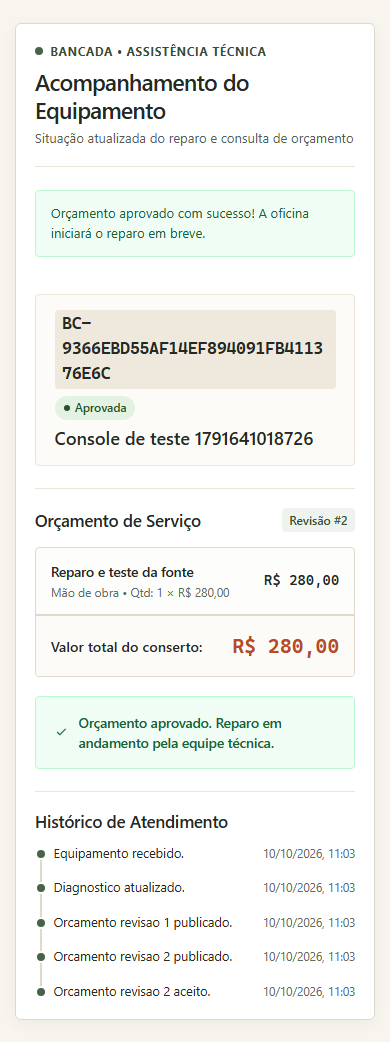
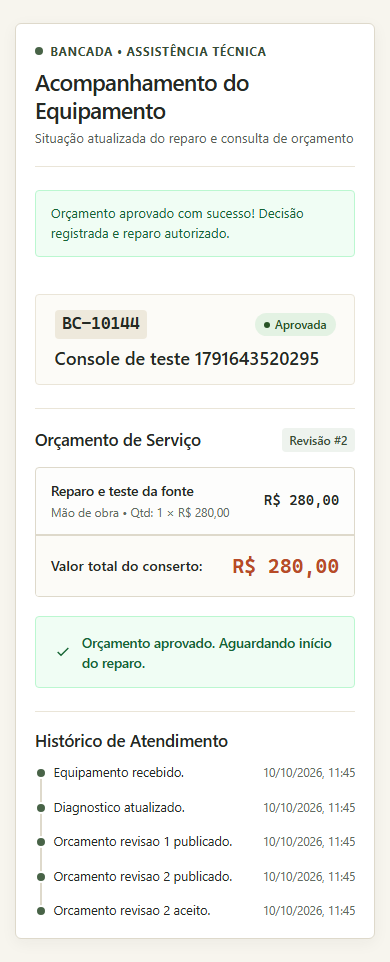
fix: preserve demo sessions and remove stale repair actions

diff --git a/e2e/demo.spec.ts b/e2e/demo.spec.ts
@@ -1,0 +1,75 @@
+import { test, expect } from '@playwright/test';
+import AxeBuilder from '@axe-core/playwright';
+
+test('visitors have private data, role controls and a keyboard usable reset', async ({ page, browser }) => {
+  await page.goto('/entrar');
+  await page.getByTestId('start-demo-button').click();
+  await expect(page).toHaveURL(/\/ordens$/);
+  const initial = await (await page.request.get('/api/orders')).json();
+  expect(initial.total).toBe(5);
+  await page.getByRole('complementary').getByRole('link', { name: 'Nova ordem', exact: true }).click();
+  const equipment = `Visitante A ${Date.now()}`;
+  await page.getByLabel(/nome completo do cliente/i).fill('Cliente fictício A');
+  await page.getByLabel(/email de contato/i).fill('demo-a@example.test');
+  await page.getByLabel(/equipamento \(marca/i).fill(equipment);
+  await page.getByLabel(/problema relatado pelo cliente/i).fill('Falha fictícia.');
+  await page.getByLabel(/técnico responsável pelo diagnóstico/i).selectOption({ label: 'Tecnico Um' });
+  await page.getByRole('button', { name: /abrir ordem de serviço/i }).click();
+  await expect(page).toHaveURL(/\/ordens\/[0-9a-f-]+$/);
+  const privateOrderUrl = page.url();
+  const pending = initial.items.find((i: { equipmentLabel: string }) => i.equipmentLabel.startsWith('Monitor'));
+  await page.goto(`/ordens/${pending.id}`);
+  await page.getByRole('button', { name: /gerar link de acompanhamento/i }).click();
+  const access = page.getByLabel(/link de acompanhamento gerado/i);
+  await expect(access).toHaveValue(/#token=/);
+  const customer = await page.context().newPage();
+  await customer.goto(await access.inputValue());
+  await expect(customer.getByRole('button', { name: 'Aprovar orçamento', exact: true })).toBeVisible();
+  await page.goto(privateOrderUrl);
+  const independent = await browser.newContext({ baseURL: 'http://localhost:5092' });
+  try {
+    const other = await independent.newPage();
+    await other.goto('http://localhost:5092/entrar');
+    await other.getByTestId('start-demo-button').click();
+    await expect(other).toHaveURL(/\/ordens$/);
+    expect((await (await other.request.get('/api/orders')).json()).total).toBe(5);
+    expect((await other.request.get(privateOrderUrl.replace('http://localhost:5092/ordens/', '/api/orders/'))).status()).toBe(404);
+    await expect(other.getByText(equipment, { exact: true })).toHaveCount(0);
+    await page.getByTestId('demo-role-select').selectOption('technician1');
+    await expect(page.getByTestId('demo-role-select')).toBeEnabled();
+    await expect(page.getByRole('button', { name: /registrar diagnóstico/i })).toBeVisible();
+    await customer.getByRole('button', { name: 'Aprovar orçamento', exact: true }).click();
+    await customer.getByRole('button', { name: 'Sim, aprovar serviço', exact: true }).click();
+    await expect(customer.getByText(/orçamento aprovado com sucesso/i)).toBeVisible();
+    await page.reload();
+    await expect(page.getByTestId('demo-role-select')).toHaveValue('technician1');
+    await page.getByTestId('demo-role-select').selectOption('receptionist');
+    await expect(page.getByTestId('demo-role-select')).toBeEnabled();
+    await page.goto('/ordens');
+    await expect(page.getByRole('table').getByText(equipment, { exact: true })).toBeVisible();
+    const opener = page.getByRole('button', { name: 'Reiniciar demonstração', exact: true });
+    await opener.click();
+    const modal = page.getByTestId('demo-reset-modal');
+    const cancel = modal.getByRole('button', { name: 'Cancelar', exact: true });
+    const confirm = modal.getByRole('button', { name: /sim, reiniciar/i });
+    await expect(cancel).toBeFocused();
+    await cancel.press('Shift+Tab');
+    await expect(confirm).toBeFocused();
+    await confirm.press('Tab');
+    await expect(cancel).toBeFocused();
+    await cancel.press('Escape');
+    await expect(modal).toHaveCount(0);
+    await expect(opener).toBeFocused();
+    await opener.click();
+    await confirm.click();
+    await expect(modal).toHaveCount(0);
+    await expect(page.getByText(equipment, { exact: true })).toHaveCount(0);
+    const reset = await (await page.request.get('/api/orders')).json();
+    expect(reset.total).toBe(5);
+    expect(reset.items.map((i: { id: string }) => i.id)).not.toEqual(initial.items.map((i: { id: string }) => i.id));
+    expect((await (await other.request.get('/api/orders')).json()).total).toBe(5);
+    await customer.reload();
+    await expect(customer.getByText(/acesso indisponível ou expirado/i)).toBeVisible();
+    expect((await new AxeBuilder({ page }).withTags(['wcag2a', 'wcag2aa', 'wcag21aa']).analyze()).violations).toEqual([]);
+  } finally { await independent.close(); }
+});

diff --git a/frontend/src/app/app.ts b/frontend/src/app/app.ts
@@ -1,5 +1,6 @@
 import { Component, OnInit, computed, inject, signal } from '@angular/core';
 import { CommonModule } from '@angular/common';
+import { FormsModule } from '@angular/forms';
 import { NavigationEnd, Router, RouterModule } from '@angular/router';
 import { filter } from 'rxjs';
 import { SessionService } from './core/session.service';
@@ -10,7 +11,7 @@ import { FocusTrapDirective } from './core/focus-trap.directive';
 @Component({
   selector: 'app-root',
   standalone: true,
-  imports: [CommonModule, RouterModule, FocusTrapDirective],
+  imports: [CommonModule, FormsModule, RouterModule, FocusTrapDirective],
   templateUrl: './app.html',
   styleUrl: './app.scss',
 })
@@ -78,10 +79,8 @@ export class App implements OnInit {
 
     try {
       await this.sessionService.switchDemoRole(role);
-      // Reload route without window reload
-      const url = this.router.url;
-      await this.router.navigateByUrl('/', { skipLocationChange: true });
-      await this.router.navigateByUrl(url);
+      this.sessionService.refreshRoutes = true;
+      await this.router.navigateByUrl(this.router.url, { onSameUrlNavigation: 'reload' });
     } catch (err: any) {
       if (err.status === 401) {
         this.demoErrorMessage.set('Sessão de demonstração expirada (24h). Redirecionando...');
@@ -93,6 +92,7 @@ export class App implements OnInit {
         this.demoErrorMessage.set(problem?.detail || 'Erro ao alternar papel na demonstração.');
       }
     } finally {
+      this.sessionService.refreshRoutes = false;
       this.isSwitchingRole.set(false);
     }
   }
@@ -113,8 +113,8 @@ export class App implements OnInit {
     try {
       await this.sessionService.resetDemo();
       this.showResetModal.set(false);
-      // Navigate to queue after new session
-      await this.router.navigate(['/ordens']);
+      this.sessionService.refreshRoutes = true;
+      await this.router.navigate(['/ordens'], { onSameUrlNavigation: 'reload' });
     } catch (err: any) {
       if (err.status === 401) {
         this.demoErrorMessage.set('Sessão expirada. Inicie uma nova demonstração.');
@@ -126,6 +126,7 @@ export class App implements OnInit {
         this.demoErrorMessage.set(problem?.detail || 'Falha ao reiniciar demonstração.');
       }
     } finally {
+      this.sessionService.refreshRoutes = false;
       this.isResetting.set(false);
     }
   }

diff --git a/frontend/src/app/core/demo.spec.ts b/frontend/src/app/core/demo.spec.ts
@@ -40,11 +40,14 @@ describe('Demo API and State Management', () => {
     api.setCsrfToken('cached-csrf-1');
 
     const startPromise = api.startDemo();
+    httpMock.expectOne('/api/csrf').flush({ token: 'fresh-csrf' });
+    await Promise.resolve();
+    await Promise.resolve();
     await Promise.resolve();
 
     const startReq = httpMock.expectOne('/api/demo/start');
     expect(startReq.request.method).toBe('POST');
-    expect(startReq.request.headers.get('X-CSRF-TOKEN')).toBe('cached-csrf-1');
+    expect(startReq.request.headers.get('X-CSRF-TOKEN')).toBe('fresh-csrf');
 
     const demoSession: SessionInfo = {
       id: 'demo-user-1',
@@ -62,12 +65,15 @@ describe('Demo API and State Management', () => {
     api.setCsrfToken('cached-csrf-2');
 
     const switchPromise = api.switchDemoRole('technician1');
+    httpMock.expectOne('/api/csrf').flush({ token: 'fresh-csrf' });
+    await Promise.resolve();
+    await Promise.resolve();
     await Promise.resolve();
 
     const switchReq = httpMock.expectOne('/api/demo/role');
     expect(switchReq.request.method).toBe('POST');
     expect(switchReq.request.body).toEqual({ role: 'technician1' });
-    expect(switchReq.request.headers.get('X-CSRF-TOKEN')).toBe('cached-csrf-2');
+    expect(switchReq.request.headers.get('X-CSRF-TOKEN')).toBe('fresh-csrf');
 
     const techSession: SessionInfo = {
       id: 'tech-demo-1',
@@ -85,11 +91,14 @@ describe('Demo API and State Management', () => {
     api.setCsrfToken('cached-csrf-3');
 
     const resetPromise = api.resetDemo();
+    httpMock.expectOne('/api/csrf').flush({ token: 'fresh-csrf' });
+    await Promise.resolve();
+    await Promise.resolve();
     await Promise.resolve();
 
     const resetReq = httpMock.expectOne('/api/demo/reset');
     expect(resetReq.request.method).toBe('POST');
-    expect(resetReq.request.headers.get('X-CSRF-TOKEN')).toBe('cached-csrf-3');
+    expect(resetReq.request.headers.get('X-CSRF-TOKEN')).toBe('fresh-csrf');
 
     const resetSession: SessionInfo = {
       id: 'receptionist-reset',

diff --git a/frontend/src/app/features/orders/order-list.component.ts b/frontend/src/app/features/orders/order-list.component.ts
@@ -22,6 +22,7 @@ export class OrderListComponent implements OnInit {
   private readonly api = inject(ApiClient);
   public readonly sessionService = inject(SessionService);
   private readonly router = inject(Router);
+  private latestRequest = 0;
 
   public readonly orders = signal<OrderSummary[]>([]);
   public readonly total = signal<number>(0);
@@ -86,6 +87,7 @@ export class OrderListComponent implements OnInit {
   }
 
   public async loadOrders(): Promise<void> {
+    const request = ++this.latestRequest;
     this.isLoading.set(true);
     this.hasError.set(false);
     this.errorMessage.set('');
@@ -98,9 +100,11 @@ export class OrderListComponent implements OnInit {
         page: this.page(),
         pageSize: this.pageSize(),
       });
+      if (request !== this.latestRequest) return;
       this.orders.set(res.items || []);
       this.total.set(res.total || 0);
     } catch (err: any) {
+      if (request !== this.latestRequest) return;
       this.hasError.set(true);
       const problem = ApiClient.extractProblem(err);
       this.errorMessage.set(
@@ -108,7 +112,7 @@ export class OrderListComponent implements OnInit {
           'Não foi possível carregar as ordens de serviço. Verifique a conexão com o servidor.'
       );
     } finally {
-      this.isLoading.set(false);
+      if (request === this.latestRequest) this.isLoading.set(false);
     }
   }
 

diff --git a/frontend/src/app/app.html b/frontend/src/app/app.html
@@ -110,7 +110,7 @@
         <div class="demo-strip" data-testid="demo-strip" role="region" aria-label="Controles da demonstração">
           <div class="demo-strip-left">
             <span class="demo-badge">Modo Demonstração</span>
-            <span class="demo-caption">Dados fictícios descartáveis &bull; Sem métricas inventadas</span>
+            <span class="demo-caption">Até 20 ordens &bull; Dados fictícios válidos por 24h</span>
           </div>
           <div class="demo-strip-right">
             <label for="demo-role-select" class="demo-label">Perfil ativo:</label>
@@ -118,8 +118,8 @@
               id="demo-role-select"
               data-testid="demo-role-select"
               class="form-select demo-select"
-              [value]="sessionService.currentDemoRole()"
-              (change)="onRoleSelectChange($event)"
+              [ngModel]="sessionService.currentDemoRole()"
+              (ngModelChange)="onSwitchRole($event)"
               [disabled]="isSwitchingRole() || isResetting()"
             >
               @for (opt of demoRoleOptions; track opt.value) {

diff --git a/frontend/src/app/features/orders/order-list.spec.ts b/frontend/src/app/features/orders/order-list.spec.ts
@@ -95,4 +95,22 @@ describe('OrderListComponent', () => {
     expect(retryBtn).toBeTruthy();
     expect(retryBtn?.textContent).toContain('Tentar novamente');
   });
+  it('keeps the newest filter results when earlier requests finish later', async () => {
+    let finishOld!: (value: OrdersListResponse) => void;
+    let finishNew!: (value: OrdersListResponse) => void;
+    mockApiClient.getOrders = vi.fn()
+      .mockImplementationOnce(() => new Promise(resolve => { finishOld = resolve; }))
+      .mockImplementationOnce(() => new Promise(resolve => { finishNew = resolve; }));
+    fixture = TestBed.createComponent(OrderListComponent);
+    const component = fixture.componentInstance;
+    component.searchQuery.set('no');
+    const oldRequest = component.loadOrders();
+    component.searchQuery.set('notebook');
+    const newRequest = component.loadOrders();
+    finishNew({ items: [], total: 1, page: 1, pageSize: 20 });
+    await newRequest;
+    finishOld({ items: [], total: 9, page: 1, pageSize: 20 });
+    await oldRequest;
+    expect(component.total()).toBe(1);
+  });
 });

diff --git a/frontend/src/app/features/customer/customer-view.component.html b/frontend/src/app/features/customer/customer-view.component.html
@@ -105,7 +105,16 @@
                 <svg width="20" height="20" viewBox="0 0 24 24" fill="none" stroke="currentColor" stroke-width="2">
                   <polyline points="20 6 9 17 4 12"></polyline>
                 </svg>
-                <span>Orçamento aprovado. Reparo em andamento pela equipe técnica.</span>
+                <span>
+                  @switch (o.status) {
+                    @case ('approved') { Orçamento aprovado. Aguardando início do reparo. }
+                    @case ('repairing') { Reparo em andamento pela equipe técnica. }
+                    @case ('ready') { Reparo concluído. Equipamento pronto para retirada. }
+                    @case ('delivered') { Equipamento entregue. Atendimento concluído. }
+                    @case ('cancelled') { Orçamento aprovado anteriormente. Atendimento cancelado. }
+                    @default { Orçamento aprovado. }
+                  }
+                </span>
               </div>
             } @else if (q.decision === 'rejected') {
               <div class="decision-banner banner-rejected">

diff --git a/frontend/src/app/features/customer/customer-view.spec.ts b/frontend/src/app/features/customer/customer-view.spec.ts
@@ -160,4 +160,17 @@ describe('CustomerViewComponent', () => {
     expect(fixture.componentInstance.pendingDecision()).toBeNull();
     expect(document.activeElement).toBe(acceptBtn);
   });
+  it('removes stale approval controls when access expires during a decision', async () => {
+    fixture = TestBed.createComponent(CustomerViewComponent);
+    const component = fixture.componentInstance;
+    component.order.set(sampleProjection);
+    component.openDecisionConfirm('accepted');
+    mockApiClient.submitCustomerDecision = vi.fn().mockRejectedValue({ status: 404 });
+    vi.spyOn(window, 'alert').mockImplementation(() => {});
+    await component.confirmDecision();
+    expect(component.isExpired()).toBe(true);
+    expect(component.pendingDecision()).toBeNull();
+    expect(component.order()).toBeNull();
+    vi.restoreAllMocks();
+  });
 });

diff --git a/e2e/lifecycle.spec.ts b/e2e/lifecycle.spec.ts
@@ -70,6 +70,7 @@ test('receptionist, technician and customer complete a repair in the browser', a
     await customer.getByRole('button', { name: 'Aprovar orçamento', exact: true }).click();
     await customer.getByRole('button', { name: 'Sim, aprovar serviço', exact: true }).click();
     await expect(customer.getByText(/orçamento aprovado com sucesso/i)).toBeVisible();
+    await expect(customer.getByText('Orçamento aprovado. Aguardando início do reparo.', { exact: true })).toBeVisible();
     expect((await new AxeBuilder({ page: customer }).withTags(['wcag2a', 'wcag2aa', 'wcag21aa']).analyze()).violations).toEqual([]);
     expect(await customer.evaluate(() => document.documentElement.scrollWidth <= window.innerWidth)).toBe(true);
     if (process.env['BANCADA_CAPTURE_SCREENSHOTS']) {

diff --git a/frontend/src/app/features/orders/order-detail.spec.ts b/frontend/src/app/features/orders/order-detail.spec.ts
@@ -177,4 +177,15 @@ describe('OrderDetailComponent', () => {
     expect(fixture.componentInstance.showCancelModal()).toBe(false);
     expect(document.activeElement).toBe(cancelTrigger);
   });
+  it('refreshes the order version after revoking customer access', async () => {
+    fixture = TestBed.createComponent(OrderDetailComponent);
+    const component = fixture.componentInstance;
+    component.order.set(sampleOrder);
+    mockApiClient.revokeCustomerAccess = vi.fn().mockResolvedValue(undefined);
+    mockApiClient.getOrder = vi.fn().mockResolvedValue({ ...sampleOrder, version: 4 });
+    vi.spyOn(window, 'confirm').mockReturnValue(true);
+    await component.revokeCustomerAccess();
+    expect(component.order()?.version).toBe(4);
+    vi.restoreAllMocks();
+  });
 });

diff --git a/frontend/src/app/app.config.ts b/frontend/src/app/app.config.ts
@@ -1,12 +1,14 @@
 import { ApplicationConfig, provideBrowserGlobalErrorListeners } from '@angular/core';
-import { provideRouter, withComponentInputBinding } from '@angular/router';
+import { provideRouter, withComponentInputBinding, RouteReuseStrategy } from '@angular/router';
 import { provideHttpClient, withFetch } from '@angular/common/http';
 import { routes } from './app.routes';
+import { SessionRoutes } from './core/session-routes';
 
 export const appConfig: ApplicationConfig = {
   providers: [
     provideBrowserGlobalErrorListeners(),
     provideRouter(routes, withComponentInputBinding()),
+    { provide: RouteReuseStrategy, useClass: SessionRoutes },
     provideHttpClient(withFetch()),
   ],
 };

diff --git a/playwright.demo.config.ts b/playwright.demo.config.ts
@@ -1,0 +1,16 @@
+import { defineConfig, devices } from '@playwright/test';
+
+export default defineConfig({
+  testDir: './e2e',
+  testMatch: 'demo.spec.ts',
+  workers: 1,
+  use: { baseURL: 'http://localhost:5092', trace: 'retain-on-failure' },
+  projects: [{ name: 'chromium', use: { ...devices['Desktop Chrome'] } }],
+  webServer: {
+    command: 'dotnet Bancada.Api.dll',
+    cwd: '.local/publish',
+    url: 'http://localhost:5092/health/ready',
+    reuseExistingServer: !process.env['CI'],
+    env: { ASPNETCORE_URLS: 'http://localhost:5092', ASPNETCORE_ENVIRONMENT: 'Development', BANCADA_DEMO_MODE: 'true' },
+  },
+});
